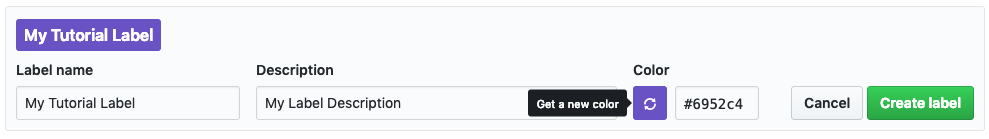
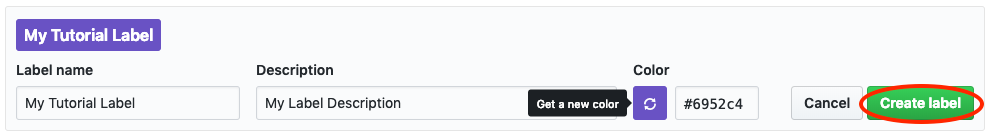
Finished Github Tutorial

Changed region(s): [[0.8493, 0.6043, 1.0, 0.8921]]

diff --git a/docs/workshops/Workshop1.md b/docs/workshops/Workshop1.md
@@ -166,11 +166,64 @@ Once we're in this tab, we can see the different options available to us:
 ![](images/2.png)
 
 * In red, is the search box, where we can search for issues, with or without filters (by default, we'll search only open issues);
-* In blue, we can find the label and Milestones subtab (we'll go into more detail on this later);
+* In blue, we can find the label and Milestones subtabs (we'll go into more detail on this later);
 * In yellow, we find the button for creating new issues in the repo.
 
+### Labels and Milestones
+Github provides these extra organizational tools so the repository can be more efficient. Issues are used for general things to keep in mind for the project collaborators, such as bugs, needed features, etc.
+#### Labels
 
 
+We use labels to be able to compartmentalize these different types of Issues in an efficient manner. This way, we can see easily the type of any issue. By default your repository has some predefined labels, but we can create our own:
+
+![](images/3.png)
+
+In the label tab, we can create a new one by using the _New Label_ button circled in red. After clicking, we'll see a wizard, where we can name the new label, give it a description, and choose a color (pressing the refresh button will randomly generate one).
+
+![](images/6.png)
+
+After creating the label by pressing the button circled in red, we should see it now in the labels subtab:
+
+![](images/7.png)
+
+#### Milestones
+Milestones are a tool to help with organizing big levels in your project. It is customary to create these _Milestones_, and fill them with issues that need to be accomplished/solved to reach the Milestone.
+
+Any contributor can then open the milestone, and assign themselves to solve a particular issue in it, create more issues, or comment on the ones already there. As the Milestone issues are closed (we will talk more on this later), Github will provide a progress bar for that particular milestone.
+
+You can create a milestone, by going to the milestones tab, and clicking the button circled in red:
+![](images/14.png)
+
+And then completing the wizard that shows up. After that your Milestone should appear in the Milestone tab:
+![](images/12.png)
+
+After this you can create the issues (more on this later) necessary for the completion of the Milestone. As these issues are closed, you can see the progress of the Milestone:
+![](images/13.png)
+
+
+### Issues
+Issues are set in a repo (repository) for all kinds of different reasons. They can be just reminders of what needs to be done in a Milestone, they can be bugs found in code, aswell as feature requests for the repo, among others. Once an Issue is created, it is flagged as "open". Once it is solved, will be flagged as closed.
+
+#### Creating and Closing Issues in your repo
+We can create an issue in the general _Issue_ tab, or inside a milestone (however general issues can be attributed to a milestone, so the second option is only there for convenience).
+
+Since we can make a general issue part of a milestone, we will create a general one, by clicking the button circled in red:
+
+![](images/9.png)
+
+In the following wizard, you can add a title and description to the issue, assign it to collaborators, give it one or more labels, and make it part of a Milestone (you can do this with the gear icons).
+
+![](images/8.png)
+You can then submit it with the button circled in red. Afterwards, your new issue should appear in your _Issues_ tab as an open issue. contributers and people who have access to the repo can open these Issues, and then comment on them:
+
+![](images/10.png)
+
+After a contributor to the project has implemented/fixed an issue of the repo, they can close it. In Github, you can do this by opening an open issue, and choosing the button in red. You can also comment, perhaps to explain  why/how you closed it or what you did:
+
+![](images/11.png)
+
+
+We are now prepared to use Github as an efficient platform for collaboration!
 
 ## 2 Data-Centric Design Hub (Per group)
 
